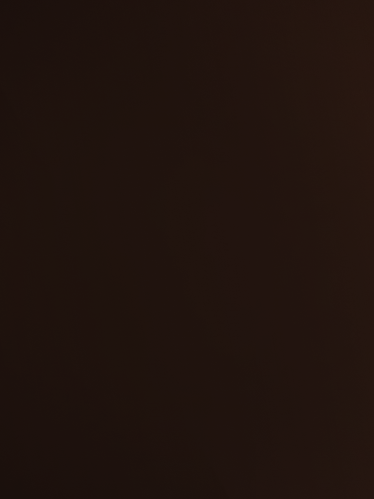
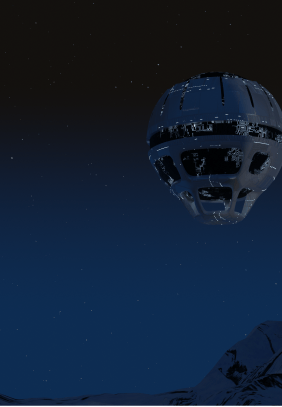
Update Disclaimer section (#16)
* Add testnet footer background images

* Update styling in testnet footer

* Change images to 0.5x compressed using ImageOptim

* Change Disclaimers to Disclaimer and Descent to Ascent

* Add section gradient to footer

* Update desktop background with 0.75x image

diff --git a/components/TheFooter.vue b/components/TheFooter.vue
@@ -5,7 +5,7 @@
         class="footer-container"
         align="start"
         direction="column"
-        gap="20px"
+        gap="3rem"
       >
         <v-heading
           class="footer-heading"
@@ -13,10 +13,10 @@
           :weight="700"
           line-height="1.2"
         >
-          Disclaimers
+          Disclaimer
         </v-heading>
         <v-text class="footer-text" line-height="1.4" :weight="400">
-          Participating in Arcana's Testnet: Quantum Descent does not constitute
+          Participating in Arcana's Testnet: Quantum Ascent does not constitute
           any guarantees of performance, reliability, or availability. Any loss
           arising from the use of our SDK will be the developer's sole
           responsibility.
@@ -27,8 +27,12 @@
           cooperate in sharing logs, metrics, and other data related to
           bugs/feature suggestions, in order to help improve the Arcana Network.
         </v-text>
+        <div>
+          <v-button type="link" label="READ MORE"></v-button>
+        </div>
       </v-stack>
     </v-container>
+    <div class="section-gradient" />
   </footer>
 </template>
 
@@ -42,22 +46,22 @@ export default {
 @import url('./lib/media-query-helper.css');
 
 footer {
-  background: url('~assets/images/testnet-footer-bg.png') repeat;
+  position: relative;
+  background: url('~assets/images/testnet-footer-bg.png') no-repeat;
   background-size: cover;
 
   @media (--viewport-small) {
-    background: url('~assets/images/testnet-footer-bg-mobile.png') repeat;
+    background: url('~assets/images/testnet-footer-bg-mobile.png') no-repeat;
     background-size: 100%;
   }
 }
 
 .footer-container {
-  padding-top: 5.5rem;
-  padding-bottom: 5.5rem;
+  padding-top: 6rem;
+  padding-bottom: 12rem;
 
   @media (--viewport-small) {
-    padding-top: 5.5rem;
-    padding-bottom: 5.5rem;
+    padding-bottom: 8rem;
   }
 }
 
@@ -77,5 +81,14 @@ footer {
   @media (--viewport-small) {
     font-size: 1rem;
   }
+}
+
+.section-gradient {
+  position: absolute;
+  bottom: 0;
+  left: 0;
+  right: 0;
+  height: 200px;
+  background: linear-gradient(0deg, #0f0908 30%, rgba(15, 9, 8, 0) 100%);
 }
 </style>
